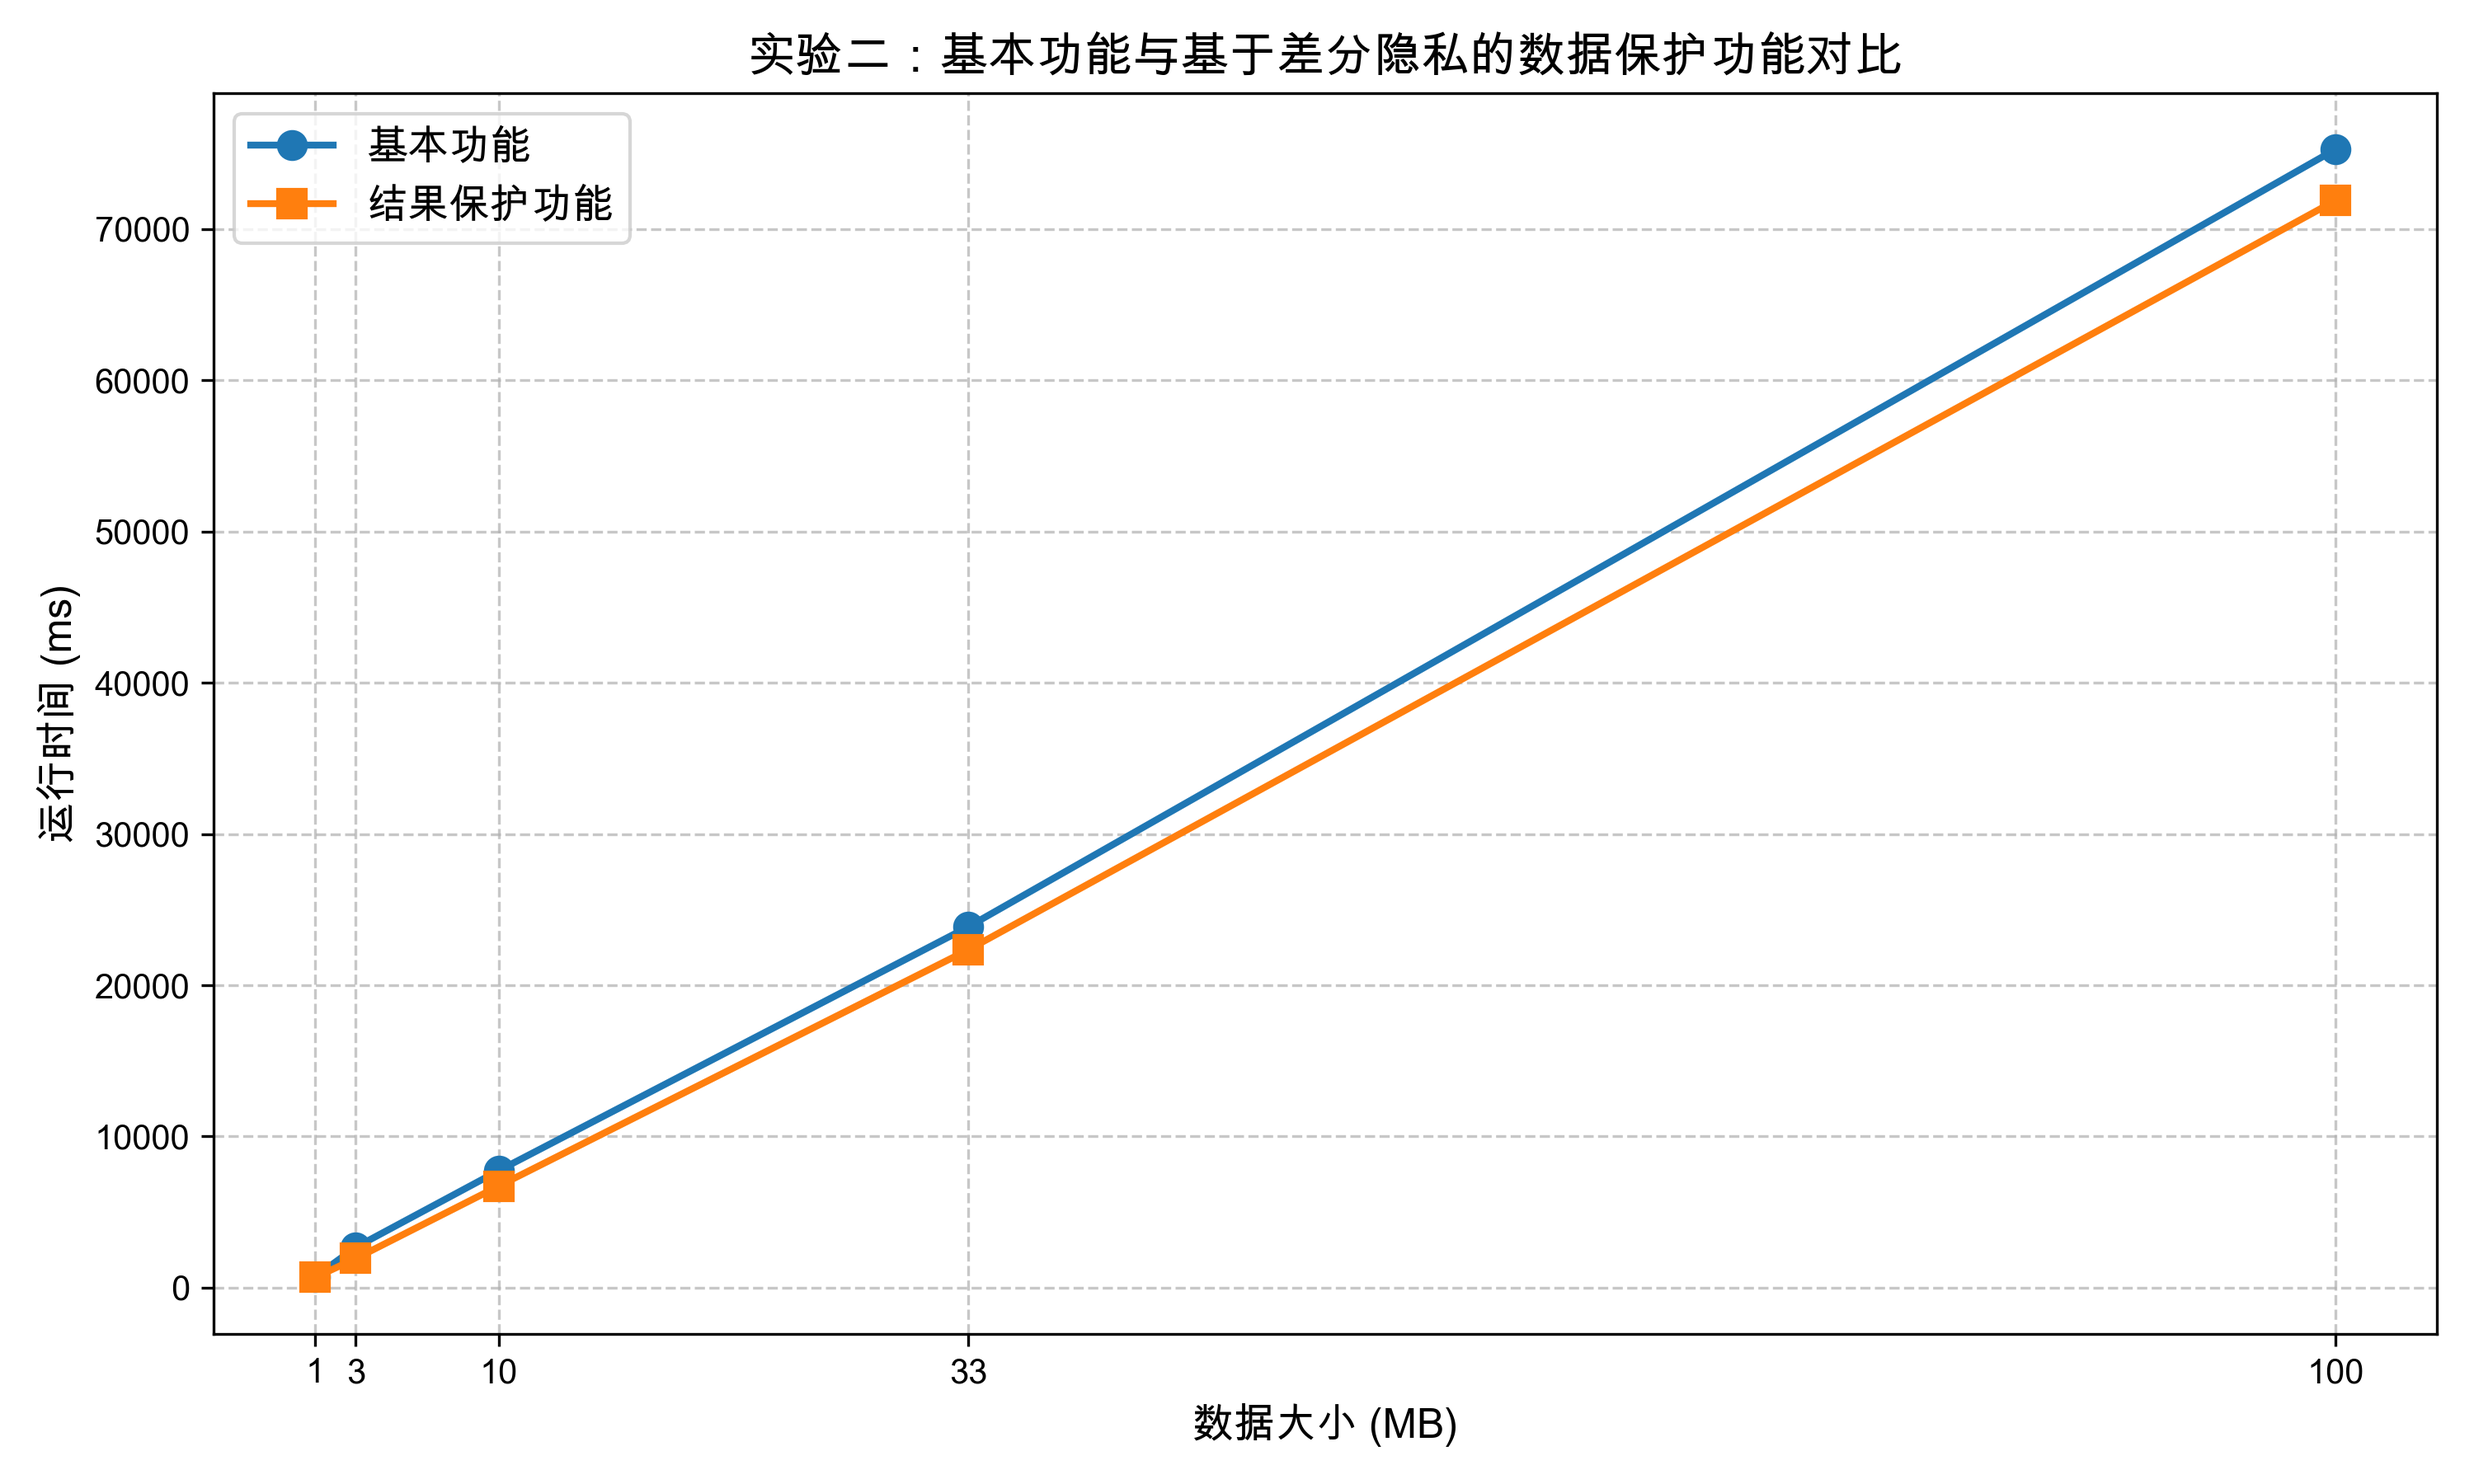
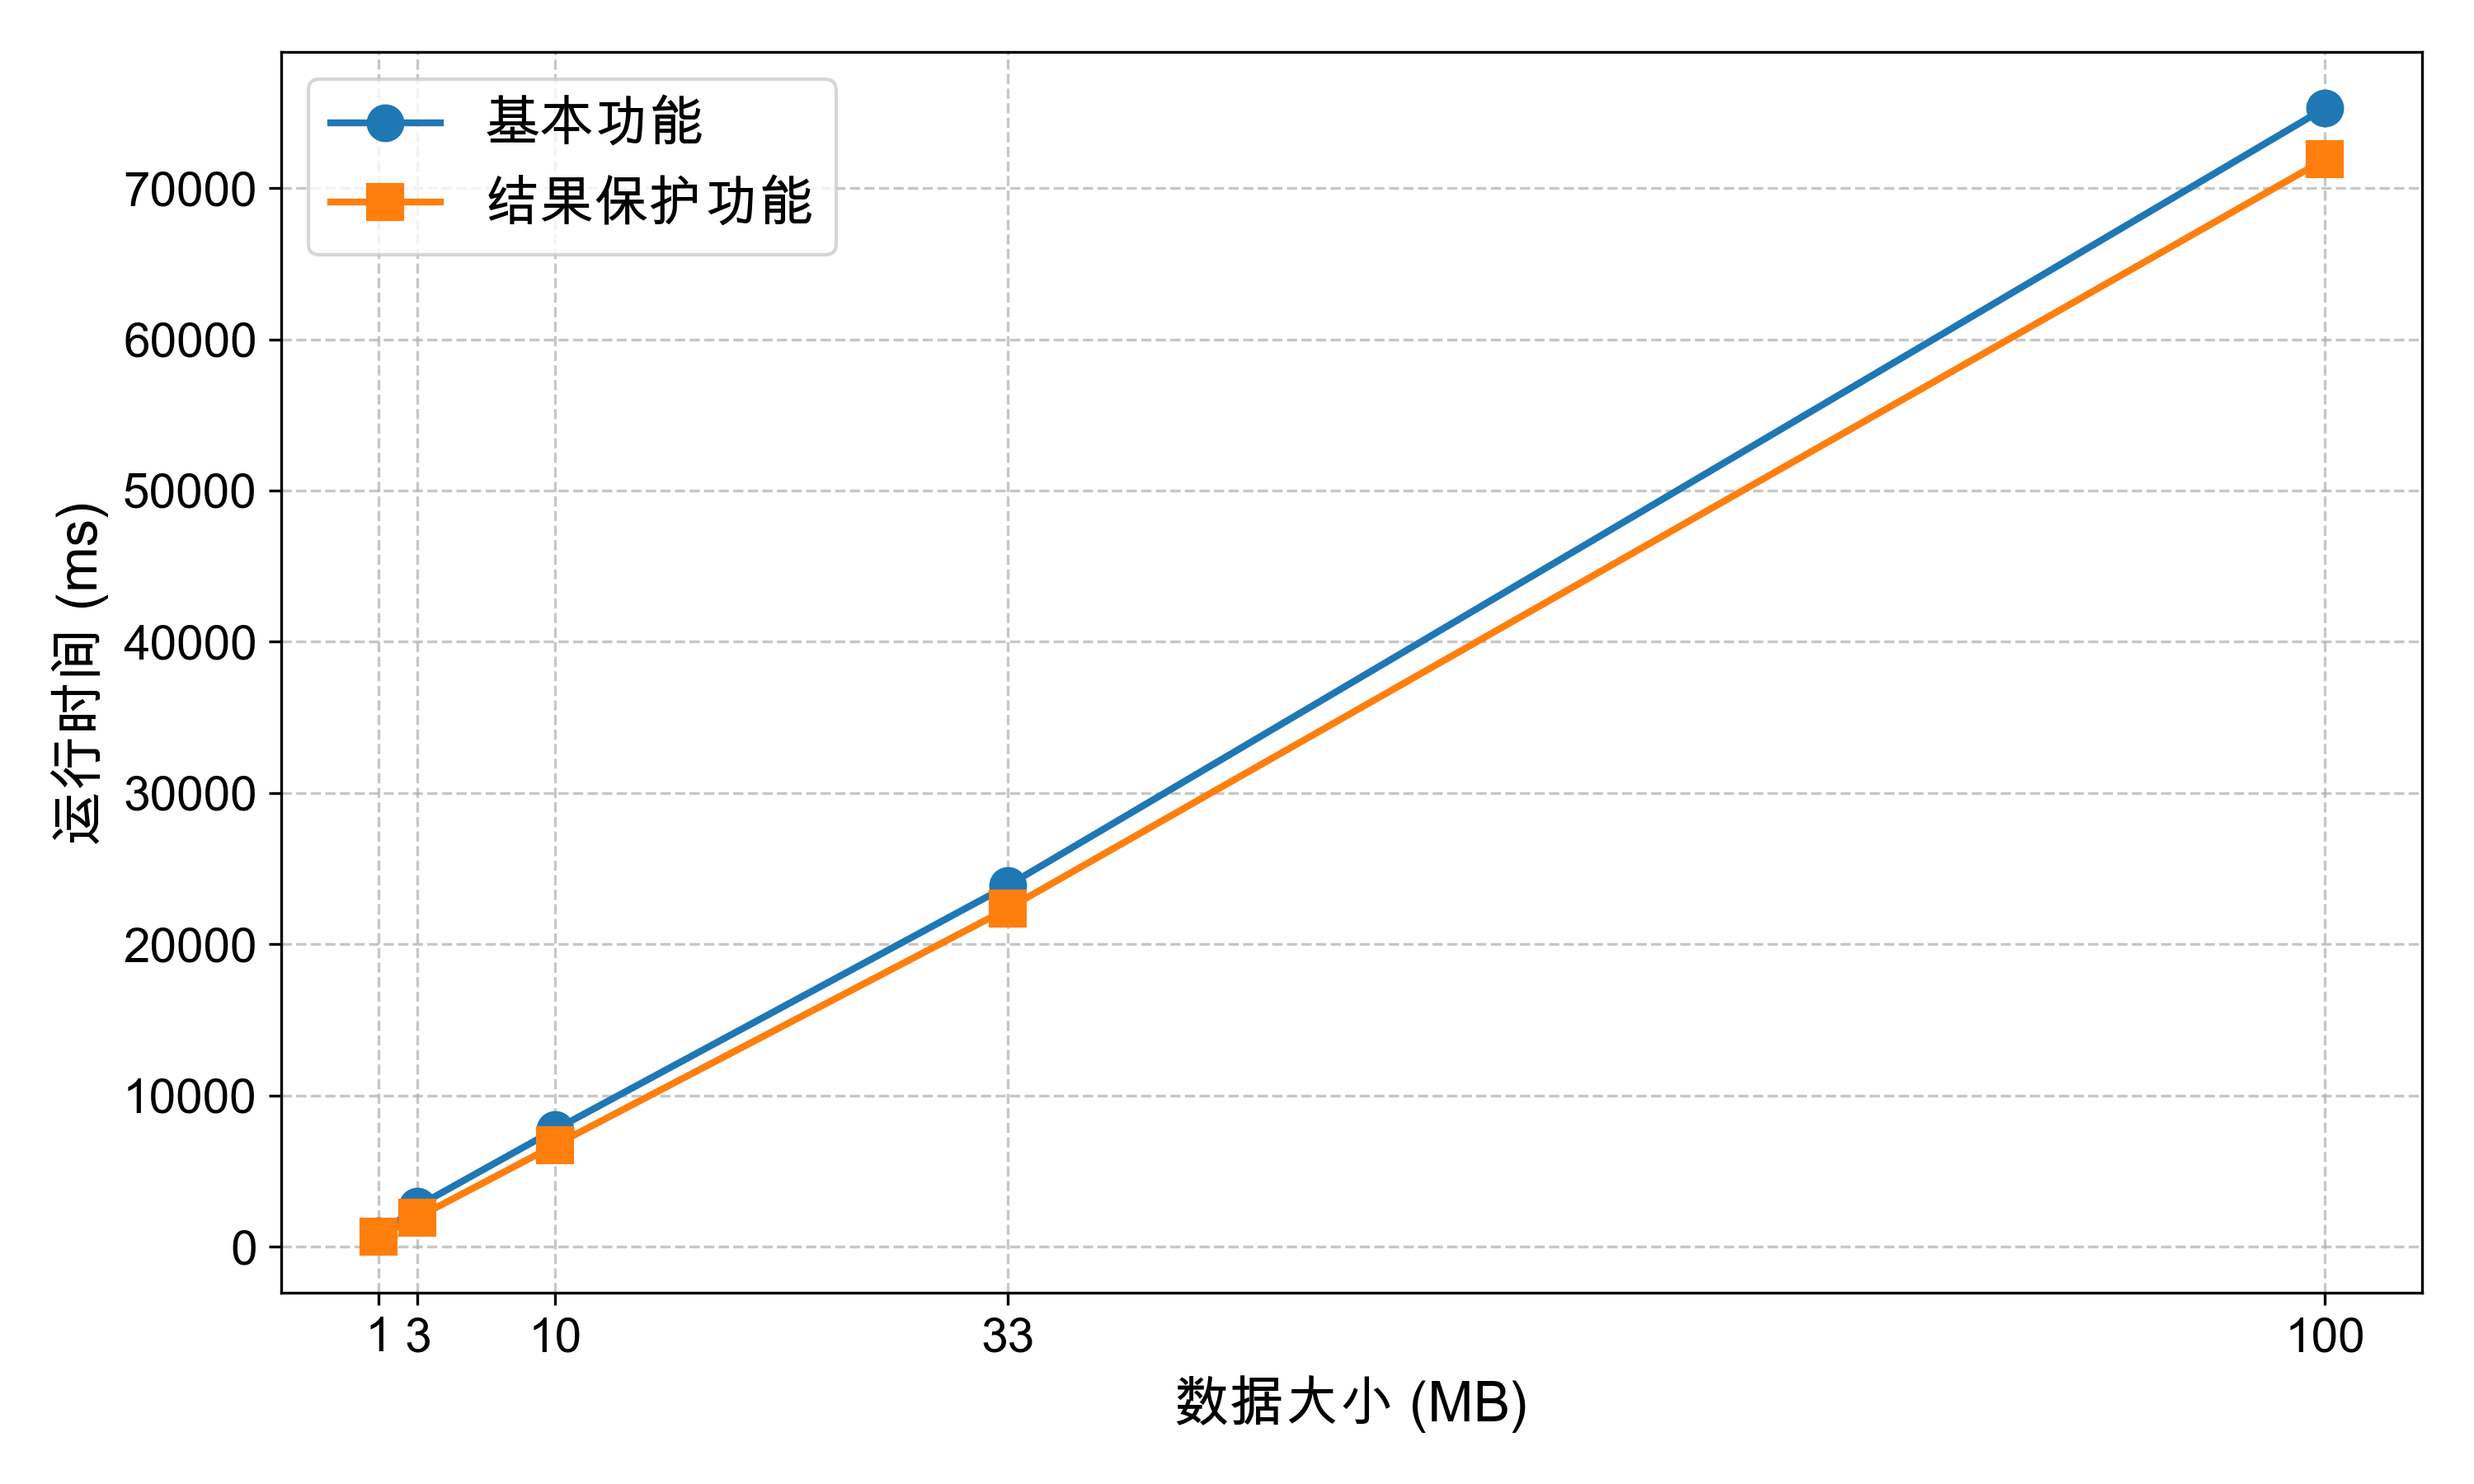
mod result img-2

diff --git a/expResultImg/plot_results.py b/expResultImg/plot_results.py
@@ -18,109 +18,126 @@ de_times = [1483, 4364, 14002, 47002, 148867]
 # 设置中文字体
 plt.rcParams['font.sans-serif'] = ['Arial Unicode MS', 'SimHei']  # 用于显示中文
 plt.rcParams['axes.unicode_minus'] = False  # 用于正常显示负号
+plt.rcParams['font.size'] = 14  # 设置全局字体大小
 
 # 创建两个版本的图：普通刻度和对数刻度
 
 # 图1：基本功能在不同数据大小上的运行时间 - 普通刻度
 plt.figure(figsize=(10, 6))
-plt.plot(data_sizes, basic_times, 'o-', linewidth=2, markersize=8, label='基本功能')
-plt.xlabel('数据大小 (MB)', fontsize=12)
-plt.ylabel('运行时间 (ms)', fontsize=12)
+plt.plot(data_sizes, basic_times, 'o-', linewidth=2, markersize=10, label='基本功能')
+plt.xlabel('数据大小 (MB)', fontsize=16)
+plt.ylabel('运行时间 (ms)', fontsize=16)
 plt.grid(True, linestyle='--', alpha=0.7)
-plt.xticks(data_sizes)
-plt.legend(fontsize=12)
+plt.xticks(data_sizes, fontsize=14)
+plt.yticks(fontsize=14)
+plt.legend(fontsize=16)
+# 原标题: plt.title('基本功能运行时间', fontsize=18)
 plt.tight_layout()
 plt.savefig('experiment1_basic_function.png', dpi=300)
 plt.close()
 
 # 图1：基本功能在不同数据大小上的运行时间 - 对数刻度
 plt.figure(figsize=(10, 6))
-plt.loglog(data_sizes, basic_times, 'o-', linewidth=2, markersize=8, label='基本功能')
-plt.xlabel('数据大小 (MB)', fontsize=12)
-plt.ylabel('运行时间 (ms)', fontsize=12)
+plt.loglog(data_sizes, basic_times, 'o-', linewidth=2, markersize=10, label='基本功能')
+plt.xlabel('数据大小 (MB)', fontsize=16)
+plt.ylabel('运行时间 (ms)', fontsize=16)
 plt.grid(True, linestyle='--', alpha=0.7)
-plt.xticks(data_sizes)
-plt.legend(fontsize=12)
+plt.xticks(data_sizes, fontsize=14)
+plt.yticks(fontsize=14)
+plt.legend(fontsize=16)
+# 原标题: plt.title('基本功能运行时间 (对数刻度)', fontsize=18)
 plt.tight_layout()
 plt.savefig('experiment1_basic_function_log.png', dpi=300)
 plt.close()
 
 # 图2：基本功能与结果保护功能对比 - 普通刻度
 plt.figure(figsize=(10, 6))
-plt.plot(data_sizes, basic_times, 'o-', linewidth=2, markersize=8, label='基本功能')
-plt.plot(data_sizes, rp_times, 's-', linewidth=2, markersize=8, label='结果保护功能')
-plt.xlabel('数据大小 (MB)', fontsize=12)
-plt.ylabel('运行时间 (ms)', fontsize=12)
+plt.plot(data_sizes, basic_times, 'o-', linewidth=2, markersize=10, label='基本功能')
+plt.plot(data_sizes, rp_times, 's-', linewidth=2, markersize=10, label='结果保护功能')
+plt.xlabel('数据大小 (MB)', fontsize=16)
+plt.ylabel('运行时间 (ms)', fontsize=16)
 plt.grid(True, linestyle='--', alpha=0.7)
-plt.xticks(data_sizes)
-plt.legend(fontsize=12)
+plt.xticks(data_sizes, fontsize=14)
+plt.yticks(fontsize=14)
+plt.legend(fontsize=16)
+# 原标题: plt.title('基本功能与结果保护功能对比', fontsize=18)
 plt.tight_layout()
 plt.savefig('experiment2_result_protection.png', dpi=300)
 plt.close()
 
 # 图2：基本功能与结果保护功能对比 - 对数刻度
 plt.figure(figsize=(10, 6))
-plt.loglog(data_sizes, basic_times, 'o-', linewidth=2, markersize=8, label='基本功能')
-plt.loglog(data_sizes, rp_times, 's-', linewidth=2, markersize=8, label='结果保护功能')
-plt.xlabel('数据大小 (MB)', fontsize=12)
-plt.ylabel('运行时间 (ms)', fontsize=12)
+plt.loglog(data_sizes, basic_times, 'o-', linewidth=2, markersize=10, label='基本功能')
+plt.loglog(data_sizes, rp_times, 's-', linewidth=2, markersize=10, label='结果保护功能')
+plt.xlabel('数据大小 (MB)', fontsize=16)
+plt.ylabel('运行时间 (ms)', fontsize=16)
 plt.grid(True, linestyle='--', alpha=0.7)
-plt.xticks(data_sizes)
-plt.legend(fontsize=12)
+plt.xticks(data_sizes, fontsize=14)
+plt.yticks(fontsize=14)
+plt.legend(fontsize=16)
+# 原标题: plt.title('基本功能与结果保护功能对比 (对数刻度)', fontsize=18)
 plt.tight_layout()
 plt.savefig('experiment2_result_protection_log.png', dpi=300)
 plt.close()
 
 # 图3：基本功能与双重执行功能对比 - 普通刻度
 plt.figure(figsize=(10, 6))
-plt.plot(data_sizes, basic_times, 'o-', linewidth=2, markersize=8, label='基本功能')
-plt.plot(data_sizes, de_times, '^-', linewidth=2, markersize=8, label='双重执行功能')
-plt.xlabel('数据大小 (MB)', fontsize=12)
-plt.ylabel('运行时间 (ms)', fontsize=12)
+plt.plot(data_sizes, basic_times, 'o-', linewidth=2, markersize=10, label='基本功能')
+plt.plot(data_sizes, de_times, '^-', linewidth=2, markersize=10, label='双重执行功能')
+plt.xlabel('数据大小 (MB)', fontsize=16)
+plt.ylabel('运行时间 (ms)', fontsize=16)
 plt.grid(True, linestyle='--', alpha=0.7)
-plt.xticks(data_sizes)
-plt.legend(fontsize=12)
+plt.xticks(data_sizes, fontsize=14)
+plt.yticks(fontsize=14)
+plt.legend(fontsize=16)
+# 原标题: plt.title('基本功能与双重执行功能对比', fontsize=18)
 plt.tight_layout()
 plt.savefig('experiment3_dual_execution.png', dpi=300)
 plt.close()
 
 # 图3：基本功能与双重执行功能对比 - 对数刻度
 plt.figure(figsize=(10, 6))
-plt.loglog(data_sizes, basic_times, 'o-', linewidth=2, markersize=8, label='基本功能')
-plt.loglog(data_sizes, de_times, '^-', linewidth=2, markersize=8, label='双重执行功能')
-plt.xlabel('数据大小 (MB)', fontsize=12)
-plt.ylabel('运行时间 (ms)', fontsize=12)
+plt.loglog(data_sizes, basic_times, 'o-', linewidth=2, markersize=10, label='基本功能')
+plt.loglog(data_sizes, de_times, '^-', linewidth=2, markersize=10, label='双重执行功能')
+plt.xlabel('数据大小 (MB)', fontsize=16)
+plt.ylabel('运行时间 (ms)', fontsize=16)
 plt.grid(True, linestyle='--', alpha=0.7)
-plt.xticks(data_sizes)
-plt.legend(fontsize=12)
+plt.xticks(data_sizes, fontsize=14)
+plt.yticks(fontsize=14)
+plt.legend(fontsize=16)
+# 原标题: plt.title('基本功能与双重执行功能对比 (对数刻度)', fontsize=18)
 plt.tight_layout()
 plt.savefig('experiment3_dual_execution_log.png', dpi=300)
 plt.close()
 
 # 额外创建一个综合对比图 - 普通刻度
 plt.figure(figsize=(12, 7))
-plt.plot(data_sizes, basic_times, 'o-', linewidth=2, markersize=8, label='基本功能')
-plt.plot(data_sizes, rp_times, 's-', linewidth=2, markersize=8, label='结果保护功能')
-plt.plot(data_sizes, de_times, '^-', linewidth=2, markersize=8, label='双重执行功能')
-plt.xlabel('数据大小 (MB)', fontsize=12)
-plt.ylabel('运行时间 (ms)', fontsize=12)
+plt.plot(data_sizes, basic_times, 'o-', linewidth=2, markersize=10, label='基本功能')
+plt.plot(data_sizes, rp_times, 's-', linewidth=2, markersize=10, label='结果保护功能')
+plt.plot(data_sizes, de_times, '^-', linewidth=2, markersize=10, label='双重执行功能')
+plt.xlabel('数据大小 (MB)', fontsize=16)
+plt.ylabel('运行时间 (ms)', fontsize=16)
 plt.grid(True, linestyle='--', alpha=0.7)
-plt.xticks(data_sizes)
-plt.legend(fontsize=12)
+plt.xticks(data_sizes, fontsize=14)
+plt.yticks(fontsize=14)
+plt.legend(fontsize=16)
+# 原标题: plt.title('三种功能运行时间对比', fontsize=18)
 plt.tight_layout()
 plt.savefig('experiment_all_comparison.png', dpi=300)
 plt.close()
 
 # 额外创建一个综合对比图 - 对数刻度
 plt.figure(figsize=(12, 7))
-plt.loglog(data_sizes, basic_times, 'o-', linewidth=2, markersize=8, label='基本功能')
-plt.loglog(data_sizes, rp_times, 's-', linewidth=2, markersize=8, label='结果保护功能')
-plt.loglog(data_sizes, de_times, '^-', linewidth=2, markersize=8, label='双重执行功能')
-plt.xlabel('数据大小 (MB)', fontsize=12)
-plt.ylabel('运行时间 (ms)', fontsize=12)
+plt.loglog(data_sizes, basic_times, 'o-', linewidth=2, markersize=10, label='基本功能')
+plt.loglog(data_sizes, rp_times, 's-', linewidth=2, markersize=10, label='结果保护功能')
+plt.loglog(data_sizes, de_times, '^-', linewidth=2, markersize=10, label='双重执行功能')
+plt.xlabel('数据大小 (MB)', fontsize=16)
+plt.ylabel('运行时间 (ms)', fontsize=16)
 plt.grid(True, linestyle='--', alpha=0.7)
-plt.xticks(data_sizes)
-plt.legend(fontsize=12)
+plt.xticks(data_sizes, fontsize=14)
+plt.yticks(fontsize=14)
+plt.legend(fontsize=16)
+# 原标题: plt.title('三种功能运行时间对比 (对数刻度)', fontsize=18)
 plt.tight_layout()
 plt.savefig('experiment_all_comparison_log.png', dpi=300)
 plt.close()
